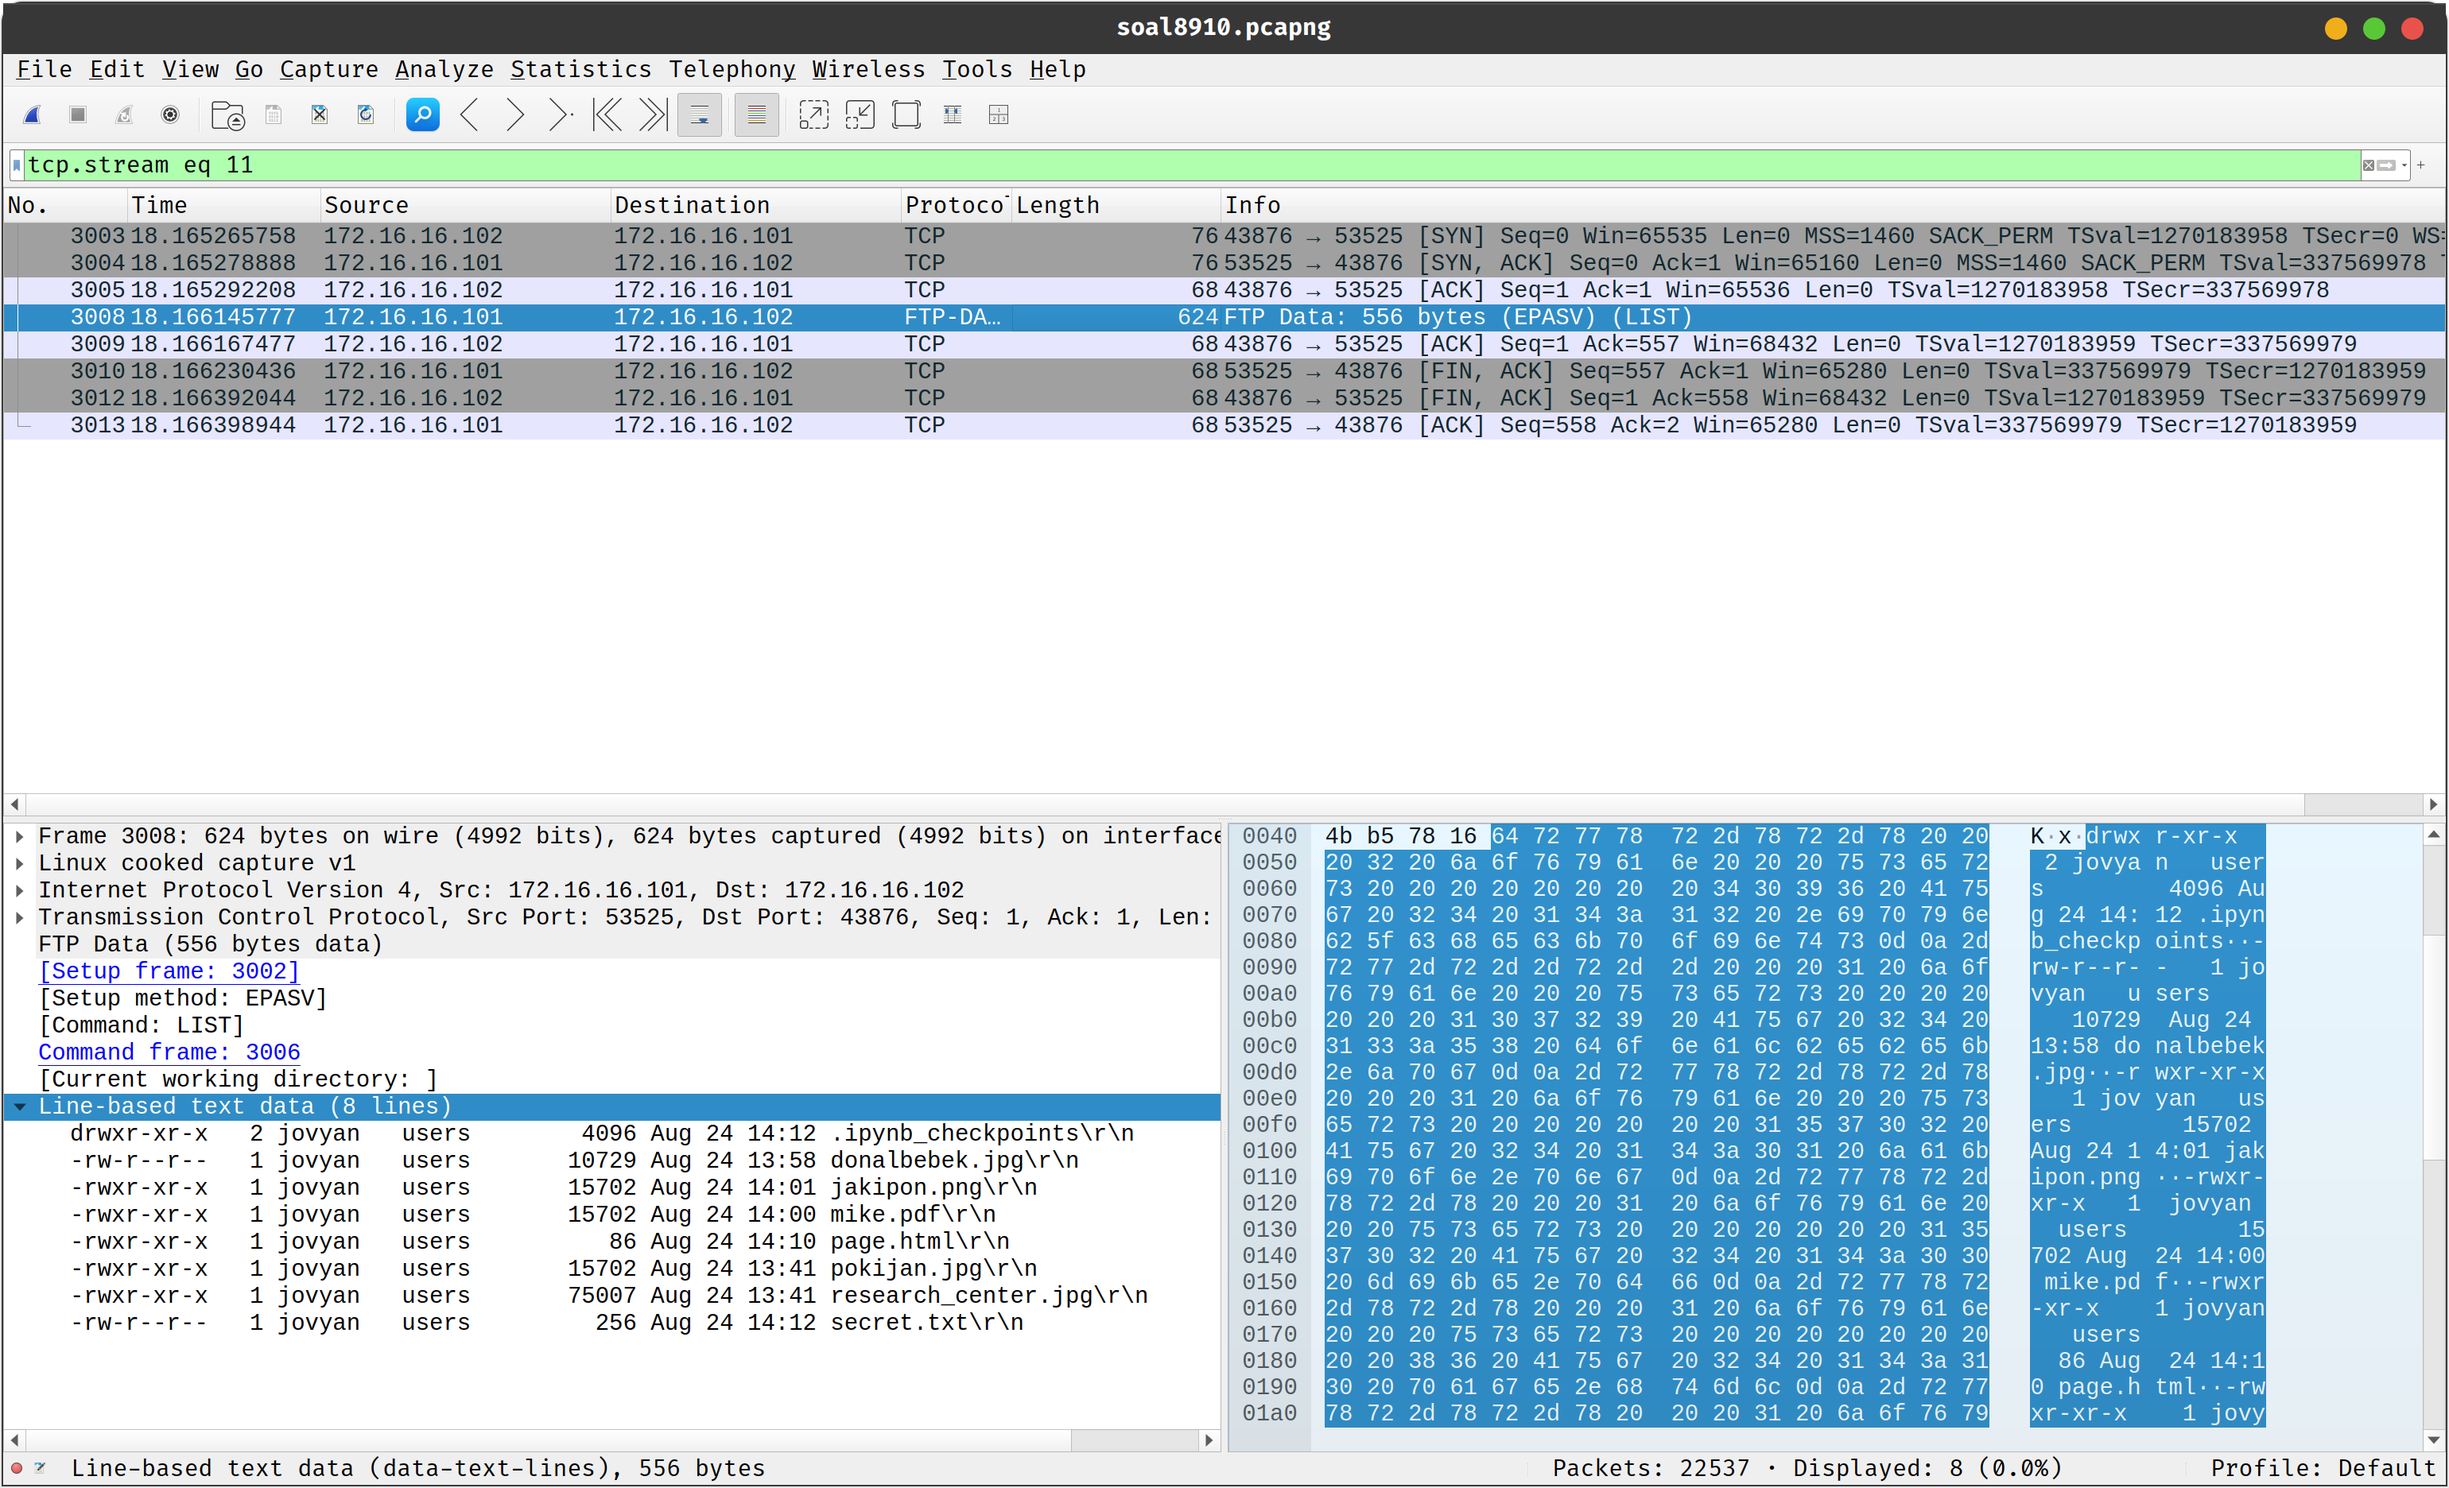
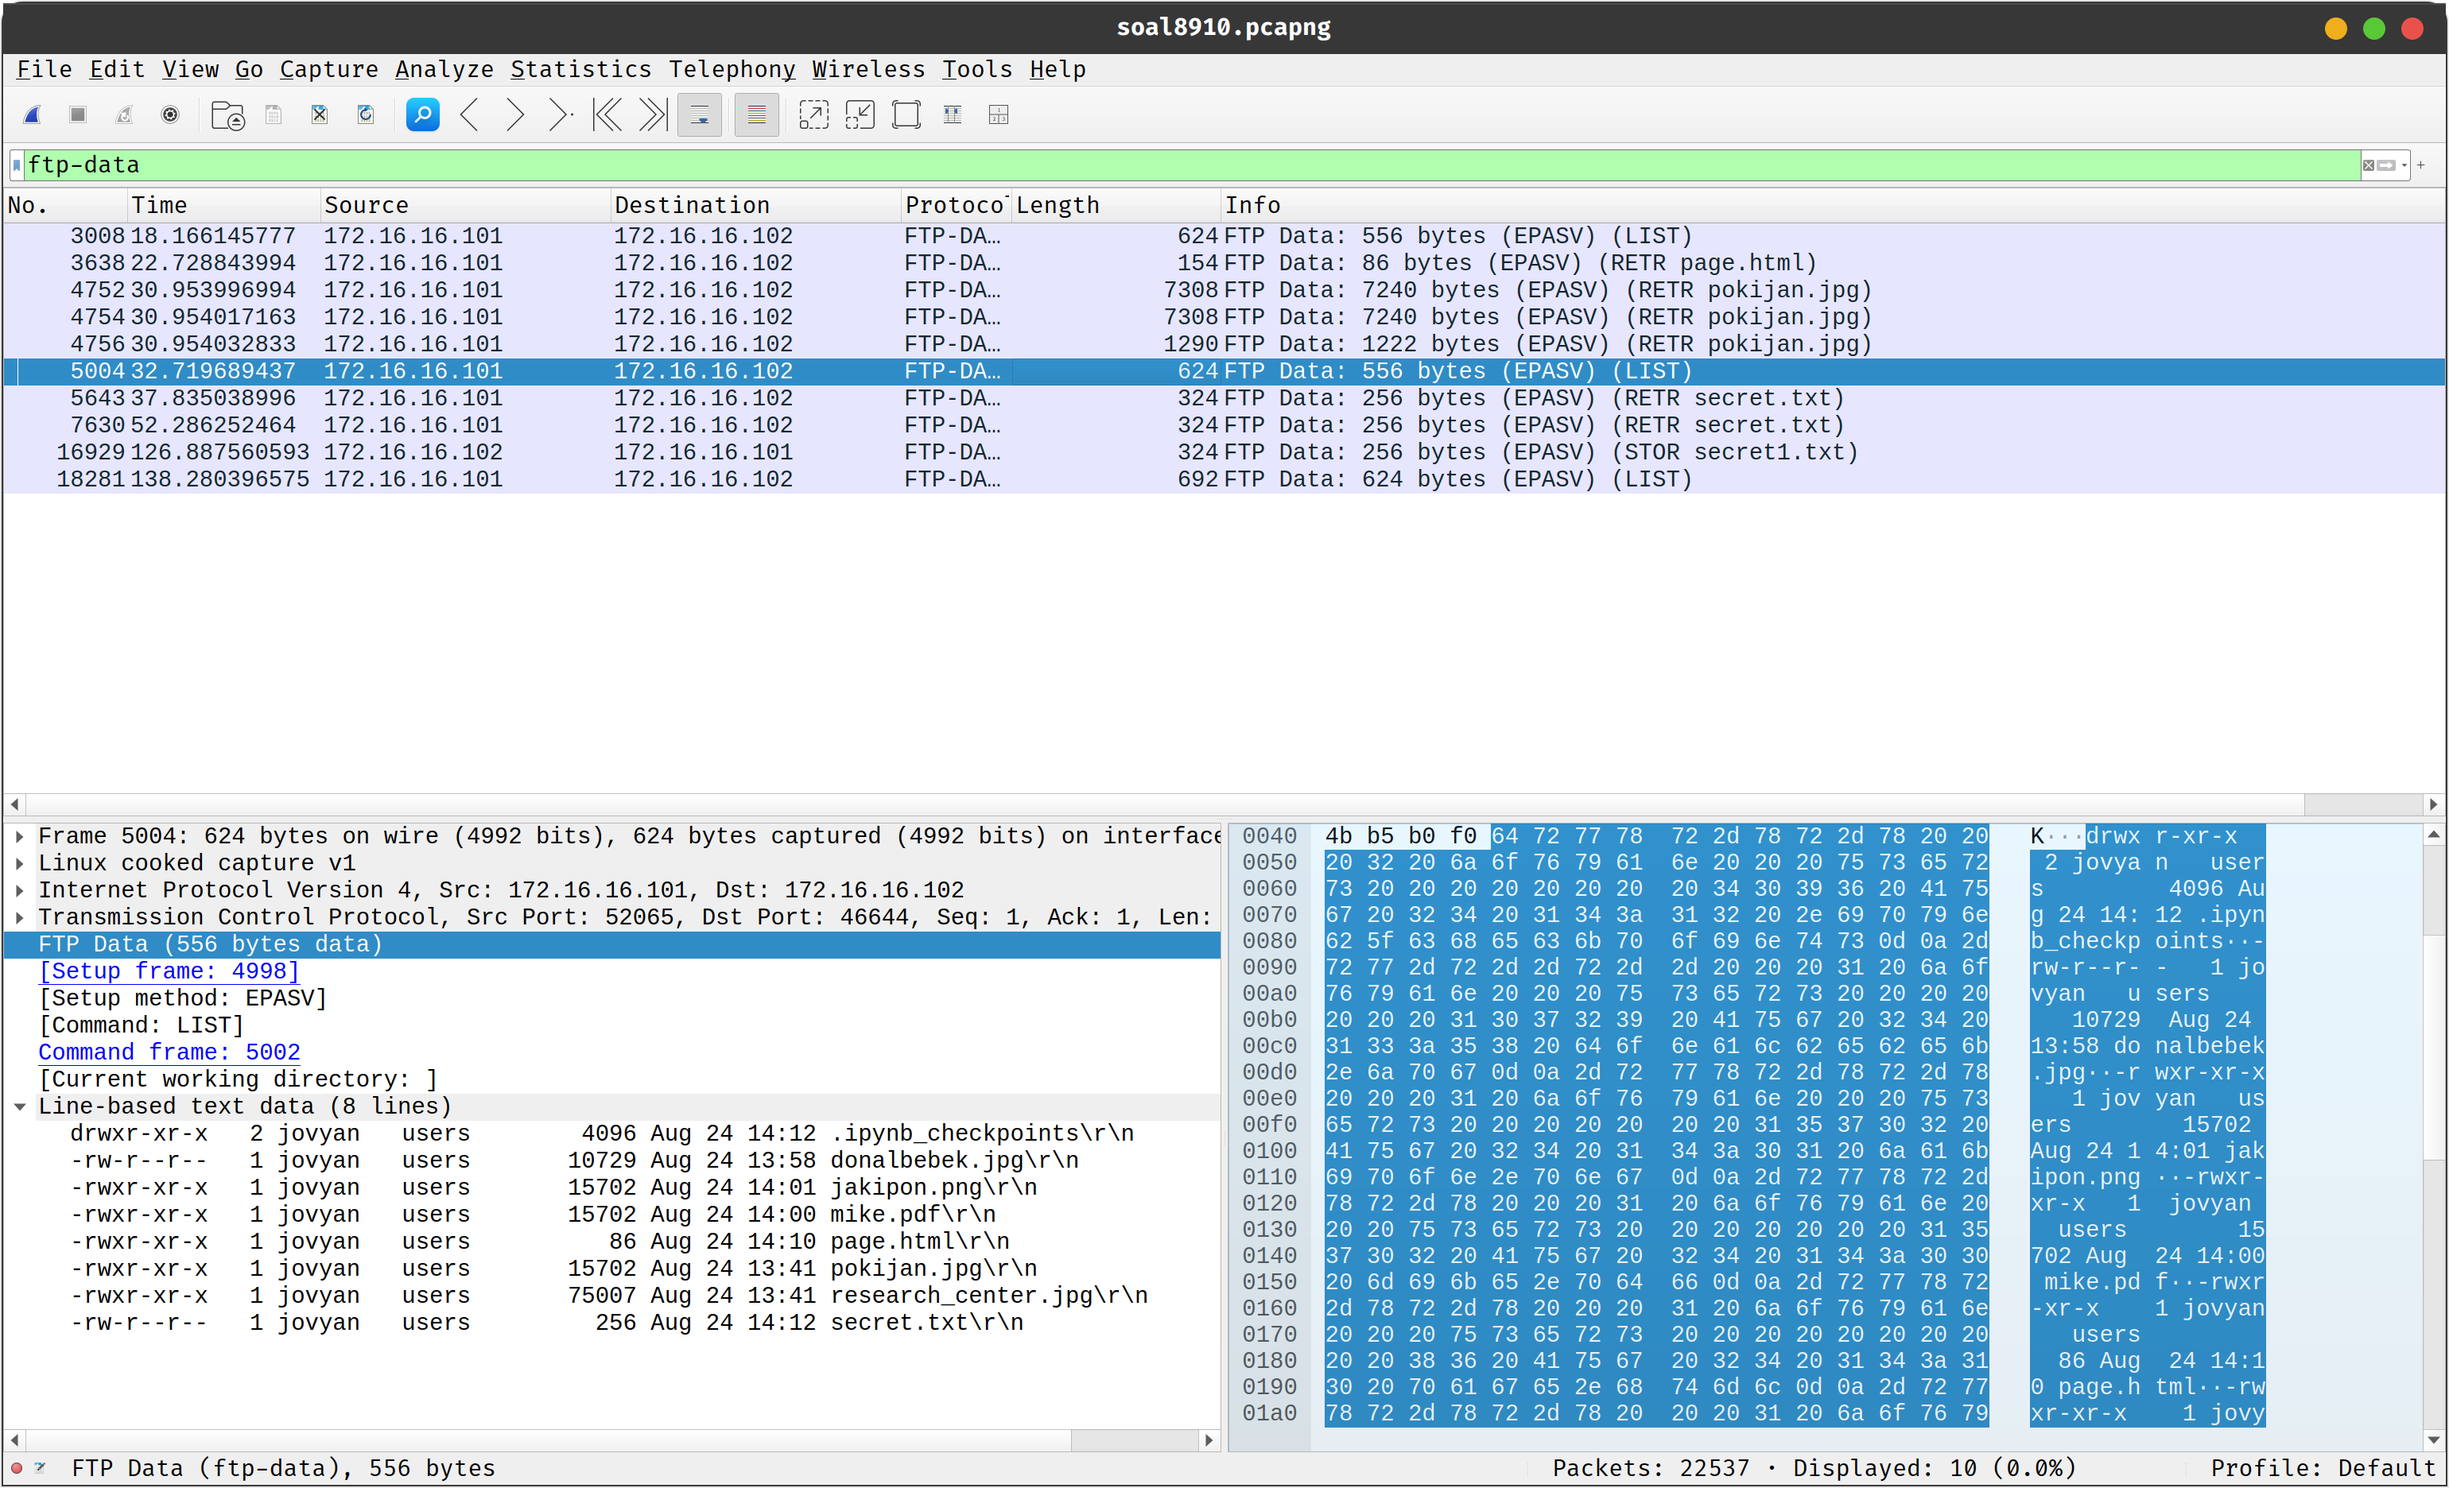
upload laporan task 8-10

diff --git a/Semester_3/JarKom_Praktikum_1_Wireshark/README.md b/Semester_3/JarKom_Praktikum_1_Wireshark/README.md
@@ -562,19 +562,21 @@
 
 > _a. How many FTP packets are recorded in the pcapng file? (with the data)_
 
-**Answer:** `put your answer here`
+**Answer:** `81`
 
 - Filter expression
 
-  `put your filter here (if any)`
+  ```
+  ftp || ftp-data
+  ```
 
 - Explanation
 
-  `put your explanation here`
+  Gunakan display filter `ftp || ftp-data` untuk menampilkan packet dengan protokol FTP (with the data), lalu lihat di pojok kanan bawah wireshark, disitu ada tulisan `Displayed: 81 (0.4%)`.
 
 - Output result
 
-  `put your output result here`
+  ![no8a](./img/no8a.png)
 
   <br>
   <br>
@@ -583,19 +585,21 @@
 
 > _b. What is the client's username and password in FTP connection? (write in following format username:password)_
 
-**Answer:** `put your answer here`
+**Answer:** `rey:password123lingangu`
 
 - Filter expression
 
-  `put your filter here (if any)`
+  ```
+  ftp
+  ```
 
 - Explanation
 
-  `put your explanation here`
+  Gunakan display filter `ftp` untuk menampilkan packet dengan protokol FTP, lalu buka menu `tcp stream` pada `analyze > follow > tcp stream`, lalu pada bagian text area setelah `USER (user)` terdapat username yang digunakan client ftp untuk berhubungan dengan server yaitu `rey`, dan setelah `PASS` terdapat passwordnya yaitu `password123lingangu`, maka username dan password client di koneksi FTP adalah `rey:password123lingangu`.
 
 - Output result
 
-  `put your output result here`
+  ![no8b](./img/no8b.png)
 
   <br>
   <br>
@@ -604,19 +608,21 @@
 
 > _c. Apa command client untuk melihat direktori server yang dikirimkan dalam request packet?_
 
-**Answer:** `put your answer here`
+**Answer:** `LIST`
 
 - Filter expression
 
-  `put your filter here (if any)`
+  ```
+  ftp-data
+  ```
 
 - Explanation
 
-  `put your explanation here`
+  Gunakan display filter `ftp-data` untuk menampilkan packet dengan protokol FTP dengan data, lalu pada bagian `line-based text data` cari command `LIST` terdapat isi dari direktori server.
 
 - Output result
 
-  `put your output result here`
+  ![no8c](./img/no8c.png)
 
   <br>
   <br>
@@ -626,24 +632,27 @@
 - Flag
 
   `put your flag here`
+  ![no9](./img/no9.png)
 
 > a. Apa alamat IP dari FTP server?
 
 > _a. What is the FTP server IP Address?_
 
-**Answer:** `put your answer here`
+**Answer:** `172.16.16.101`
 
 - Filter expression
 
-  `put your filter here (if any)`
+  ```
+  ftp
+  ```
 
 - Explanation
 
-  `put your explanation here`
+  Gunakan display filter `ftp` untuk menampilkan packet dengan protokol FTP, lalu pada bagian `Source` di paket pertama terdapat alamat IP dari FTP server yaitu `172.16.16.101`.
 
 - Output result
 
-  `put your output result here`
+  ![no9a](./img/no9a.png)
 
   <br>
   <br>
@@ -652,19 +661,21 @@
 
 > _b. How many files are there inside the FTP server directory?_
 
-**Answer:** `put your answer here`
+**Answer:** `7`
 
 - Filter expression
 
-  `put your filter here (if any)`
+  ```
+  ftp-data
+  ```
 
 - Explanation
 
-  `put your explanation here`
+  Pada soal 8c kita sudah menemukan command `LIST` yang berisi isi dari direktori server, lalu kita tinggal hitung saja ada berapa file yang ada dalam direktori FTP server, disitu terdapat `7` file(dotfile tidak dihitung).
 
 - Output result
 
-  `put your output result here`
+  ![no9b](./img/no9b.png)
 
   <br>
   <br>
@@ -673,19 +684,21 @@
 
 > _c. What are the filenames used in the page.html? (write the filebames with their extensions and separate them with comma ',')_
 
-**Answer:** `put your answer here`
+**Answer:** `pokijan.jpg,research_center.jpg`
 
 - Filter expression
 
-  `put your filter here (if any)`
+  ```
+  ftp-data
+  ```
 
 - Explanation
 
-  `put your explanation here`
+  Untuk filter expression nya masih sama seperti soal sebelumnya, lalu cari paket dengan info `page.html`, lalu follow paket tersebut, disitu terdapat file `pokijan.jpg` dan `research_center.jpg`.
 
 - Output result
 
-  `put your output result here`
+  ![no9c](./img/no9c.png)
 
   <br>
   <br>
@@ -695,24 +708,27 @@
 - Flag
 
   `put your flag here`
+  ![no10](./img/no10.png)
 
 > a. Apa nama file yang mengandung string terencode?
 
 > _a. What is the filename that contains encoded string?_
 
-**Answer:** `put your answer here`
+**Answer:** `secret.txt`
 
 - Filter expression
 
-  `put your filter here (if any)`
+  ```
+  ftp-data
+  ```
 
 - Explanation
 
-  `put your explanation here`
+  Gunakan display filter `ftp-data` untuk menampilkan packet dengan protokol FTP dengan data, lalu pada bagian `line-based text data` dari file dengan nama `secret.txt` terdapat string terencode.
 
 - Output result
 
-  `put your output result here`
+  ![no10a](./img/no10a.png)
 
   <br>
   <br>
@@ -721,19 +737,22 @@
 
 > _b. What is the filename of the previous file copy?_
 
-**Answer:** `put your answer here`
+**Answer:** `secret1.txt`
 
 - Filter expression
 
-  `put your filter here (if any)`
+  ```
+  ftp
+  ```
 
 - Explanation
 
-  `put your explanation here`
+  Gunakan display filter `ftp` untuk menampilkan packet dengan protokol FTP, lalu buka `tcp stream` pada `analyze > follow > tcp stream`, scroll ke bawah, disitu terdapat command `STOR secret1.txt`, dari situ kita tau bahwa file hasil copy tersebut adalah `secret1.txt`.
+  
 
 - Output result
 
-  `put your output result here`
+  ![no10b](./img/no10b.png)
 
   <br>
   <br>
@@ -742,19 +761,21 @@
 
 > _c. Apa decoded string dari file tersebut?_
 
-**Answer:** `put your answer here`
+**Answer:** `Pada suatu hari Rey bertemu dengan Nailong the Milk Dragon. Ketika bertemu, Rey mengajarkan Nailong apa itu Jaringan Komputer. Nailong pun senang karena ternyata Jaringan Komputer itu gampang.`
 
 - Filter expression
 
-  `put your filter here (if any)`
+  ```
+  tcp-data
+  ```
 
 - Explanation
 
-  `put your explanation here`
+  Pada soal 9a kita sudah menemukan nama file yang mengandung string terencode yaitu `secret.txt`, lalu kita tinggal decode string tersebut menggunakan base64 decode yang terdapat di web internet, maka didapatkan hasil decode stringnya yaitu `Pada suatu hari Rey bertemu dengan Nailong the Milk Dragon. Ketika bertemu, Rey mengajarkan Nailong apa itu Jaringan Komputer. Nailong pun senang karena ternyata Jaringan Komputer itu gampang.`
 
 - Output result
 
-  `put your output result here`
+  ![no10c](./img/no10c.png)
 
   <br>
   <br>
